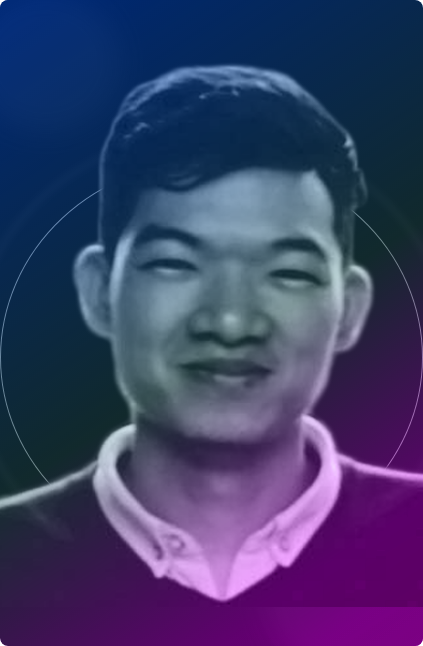
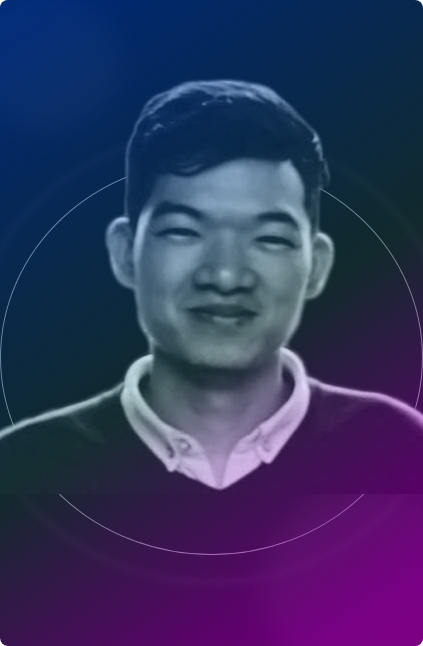
fix(CoreTeam): change img TienNguyen

diff --git a/src/components/CoreTeam/index.tsx b/src/components/CoreTeam/index.tsx
@@ -23,6 +23,8 @@ import mobileCoreTung from "../../assets/img/Team/mobileCoreTung.png"
 import mobileCoreViet from "../../assets/img/Team/mobileCoreViet.png"
 import mobileCoreManne from "../../assets/img/Team/mobileCoreManne.png"
 import mobileCorePeck from "../../assets/img/Team/mobileCorePeck.png"
+import mobileCoreTien from "../../assets/img/Team/mobileCoreTien.png"
+
 // import mobileCoreMartinez from "../../assets/img/Team/mobileCoreMartinez.png"
 // import anonymous from "../../assets/img/Team/anonymous.png"
 import AvatarItem from "../AvatarItem"
@@ -271,7 +273,7 @@ const MOBILE_CORE_TEAM = [
   },
 
   {
-    image: coreTien,
+    image: mobileCoreTien,
     name: "TIEN NGUYEN",
     job: "Digital Marketing Specialist",
     desc: "Digital marketing with a focus on social media, web development, SEO, software development, e-commerce, edtech and fintech.",
